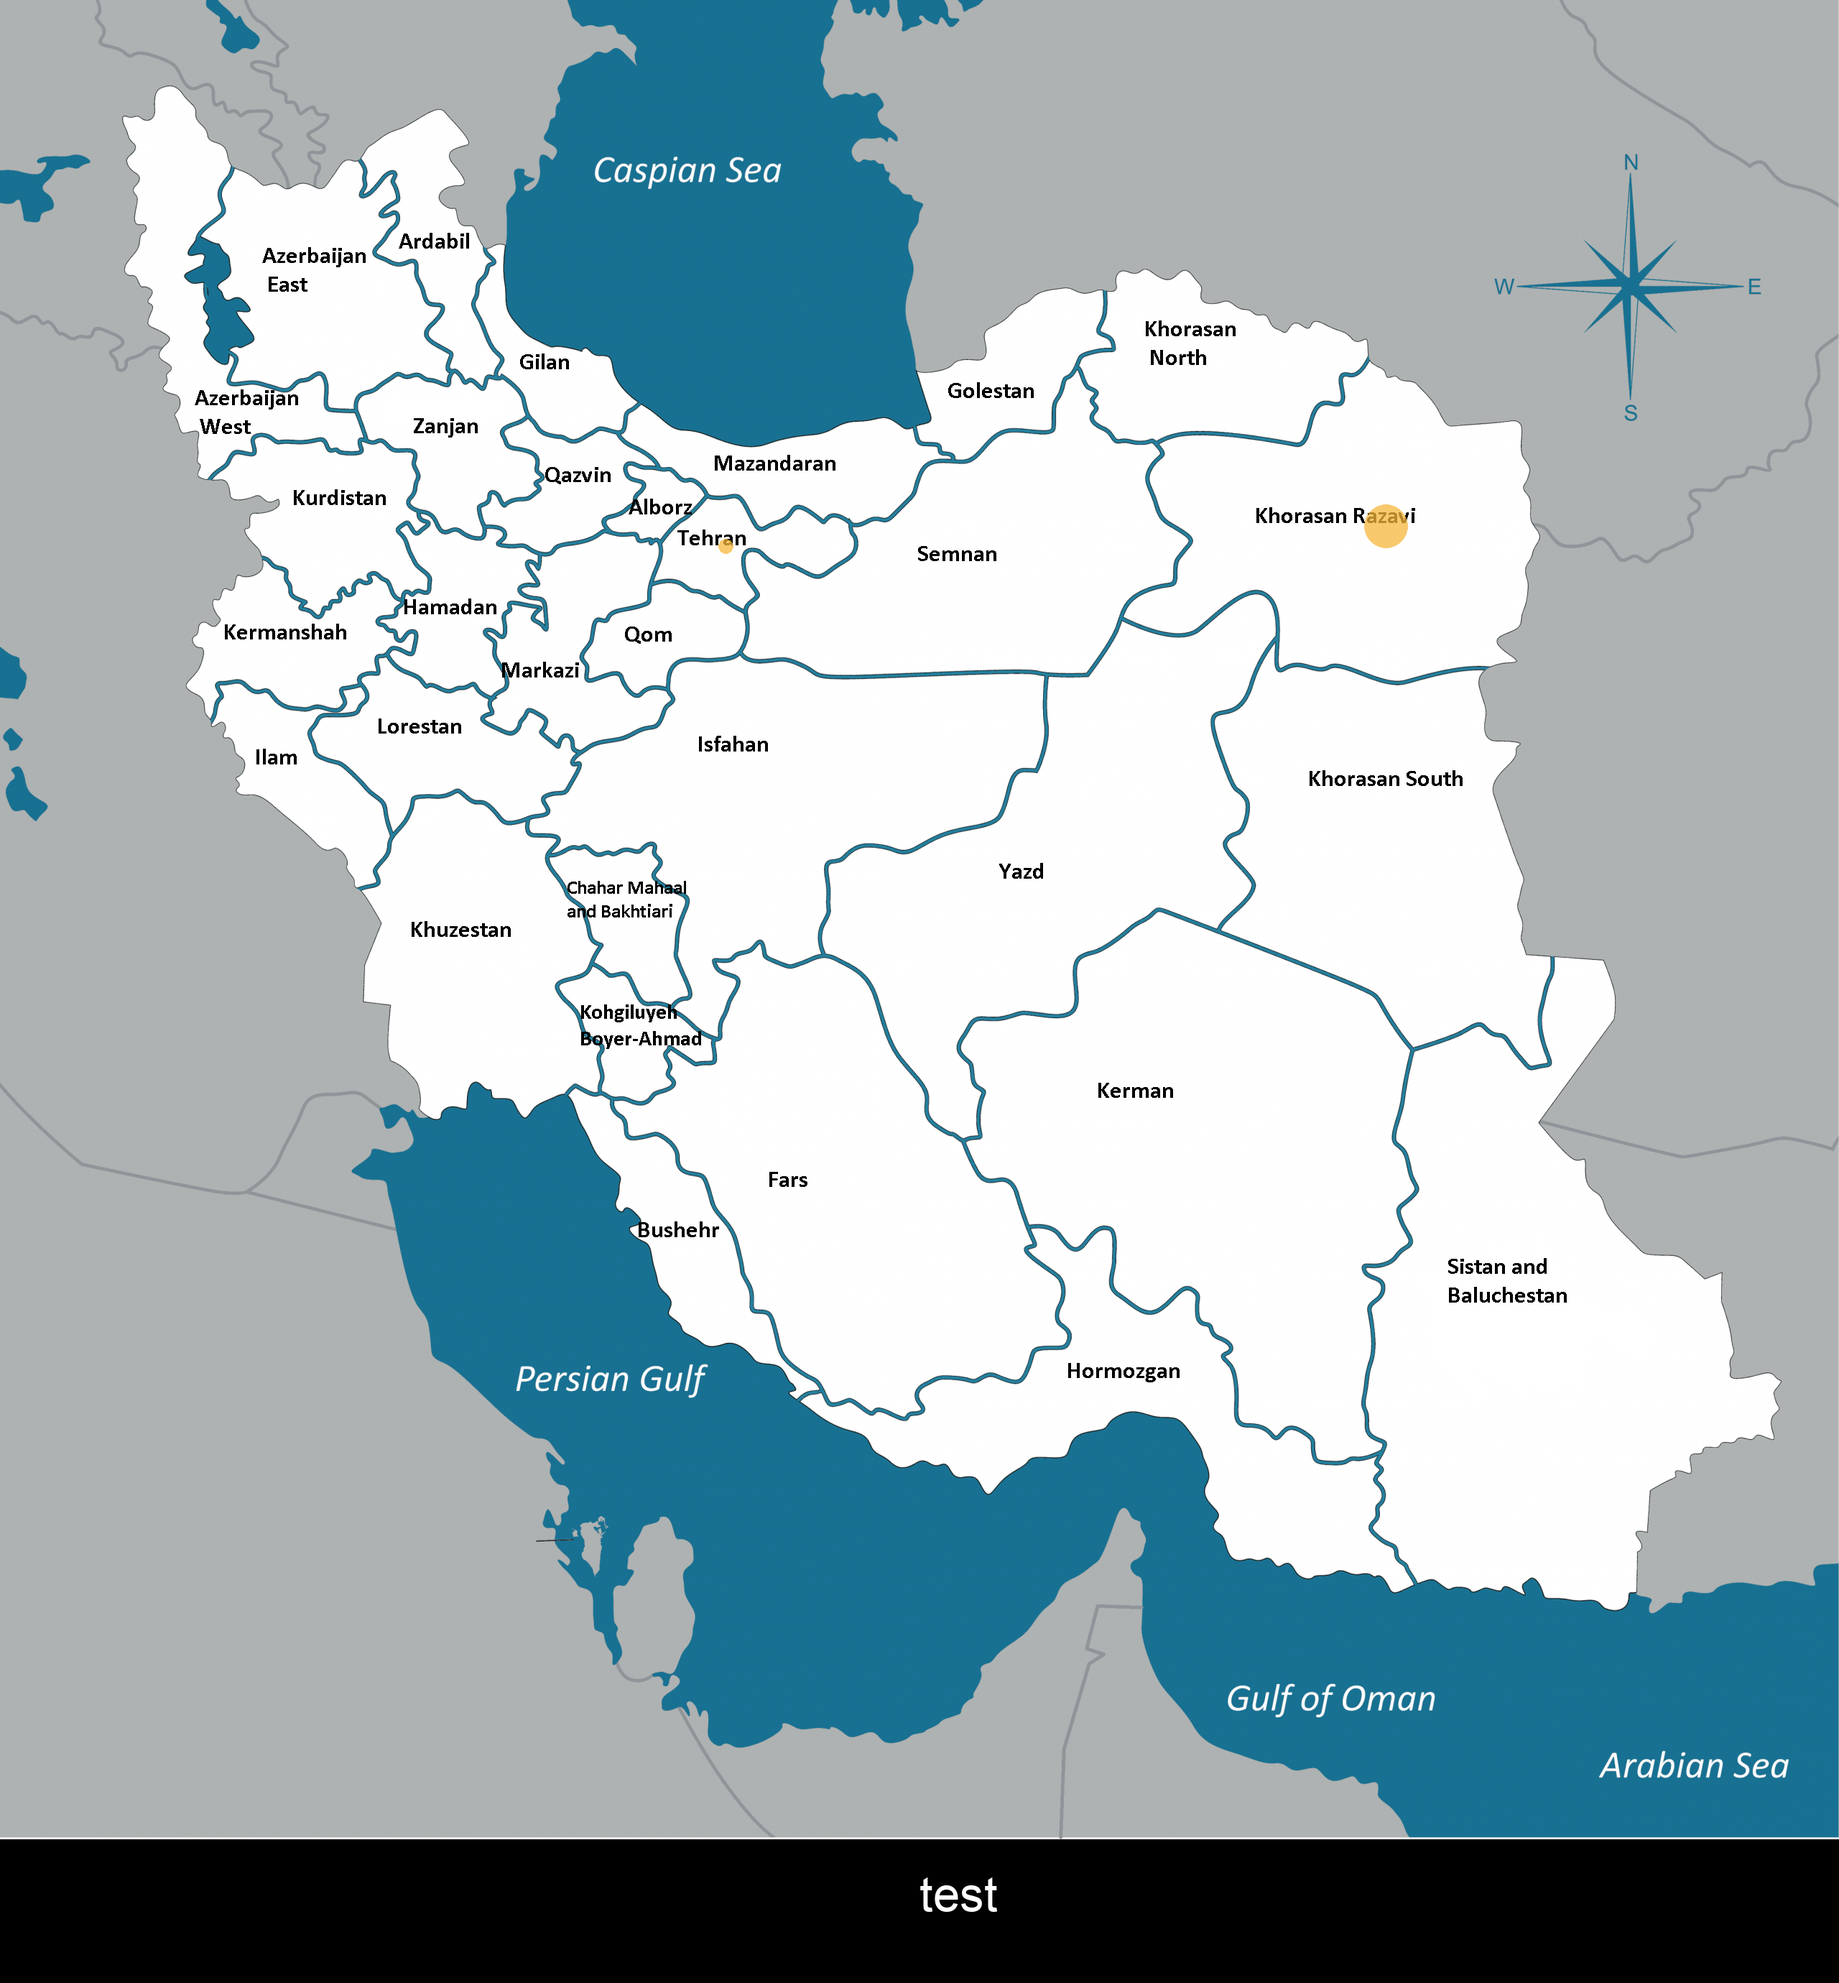
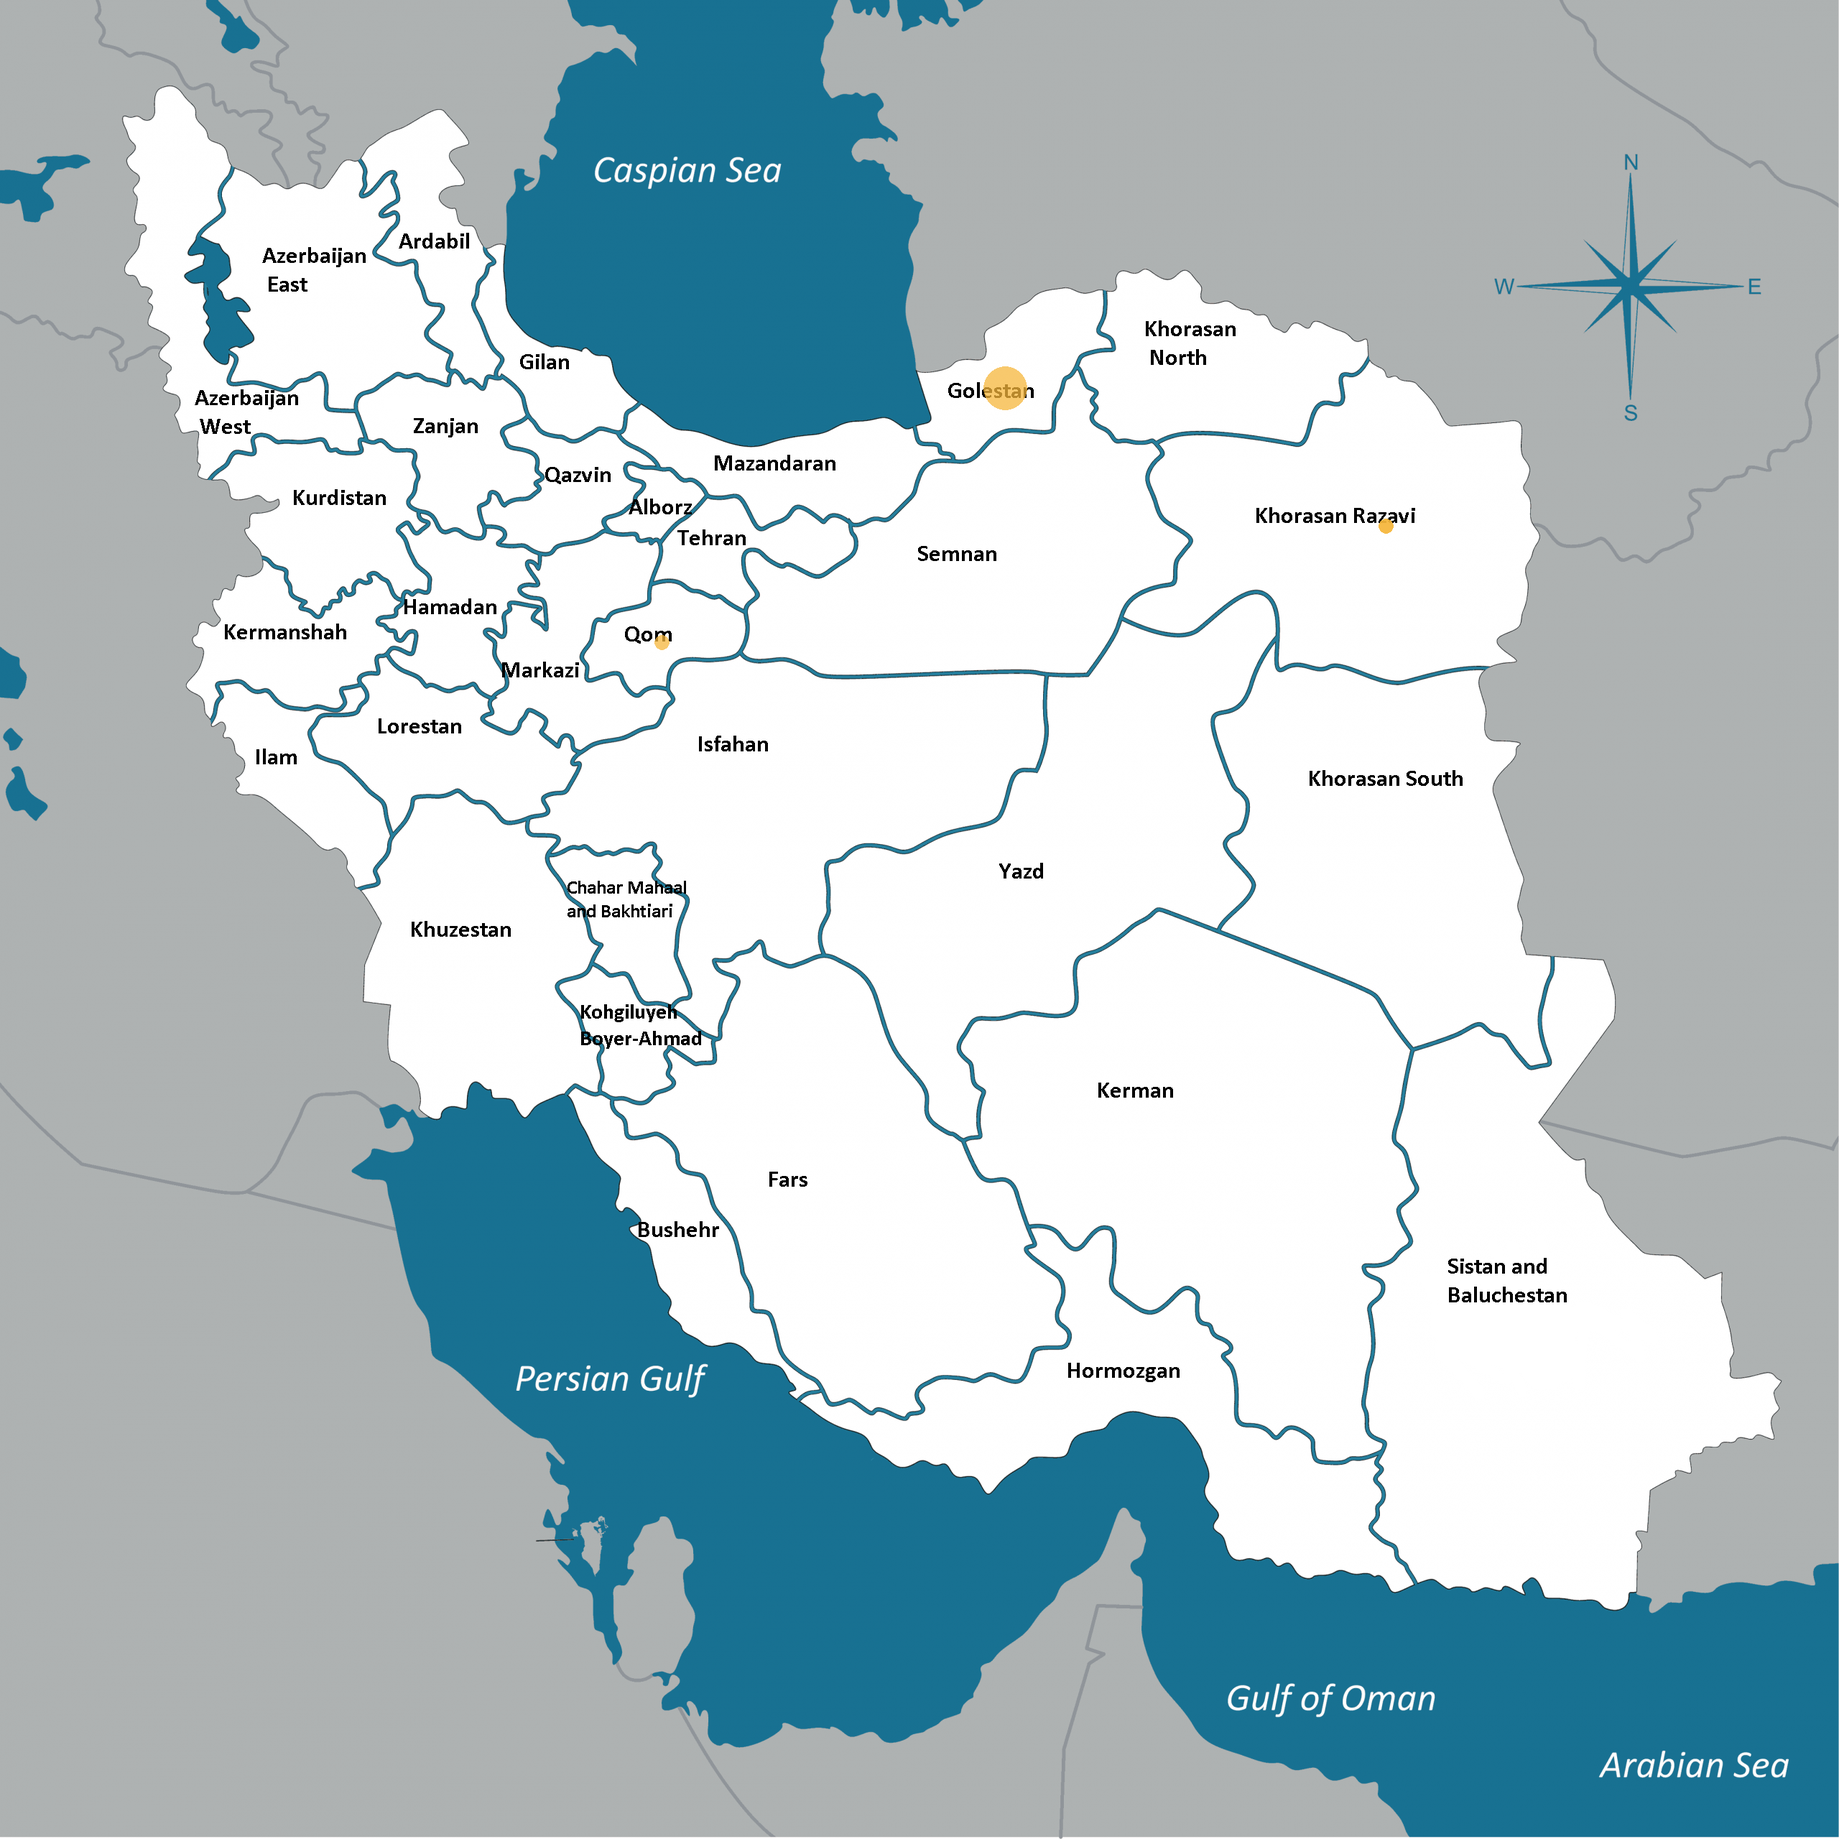
clean and organized codes add methods

diff --git a/src/php/map_diagram.php b/src/php/map_diagram.php
@@ -184,7 +184,7 @@ if ($chartDataValidation) {
         return array($min_value, $max_value);
     }
 
-    function draw_circles_on_image($data, $place_array, $min_max_value, $image, $color, $circle_diameter_range, $min_circle_diameter)
+    function draw_circles_on_image($data, $place_array, $min_max_value, $image, $color, $circle_diameter_range, $min_circle_diameter, $chartType)
     {
         $min_value = $min_max_value[0];
         $max_value = $min_max_value[1];
@@ -196,7 +196,11 @@ if ($chartDataValidation) {
             $temp_value = $temp_value / $values_different;
             $temp_value = $circle_diameter_range * $temp_value;
             $temp_value = $temp_value + $min_circle_diameter;
-            imagefilledellipse($image, $temp[1], $temp[2], $temp_value, $temp_value, $color);
+            if ($chartType == 2){
+                imagefilledellipse($image, $temp[3], $temp[2], $temp_value, $temp_value, $color);
+            }else{
+                imagefilledellipse($image, $temp[1], $temp[2], $temp_value, $temp_value, $color);
+            }
         }
     }
 
@@ -237,7 +241,7 @@ if ($chartDataValidation) {
 // Draw circle in center of states
     $data = json_decode($chartData);
     if ($chartType == 1) {
-        draw_circles_on_image($data, $states_array, find_min_and_max($data), $im, $circle_color, $circle_diameter_range, $min_circle_diameter);
+        draw_circles_on_image($data, $states_array, find_min_and_max($data), $im, $circle_color, $circle_diameter_range, $min_circle_diameter, $chartType);
     } elseif ($chartType == 2) {
         if ($chart_sum_up) {
             $temp_city_state_array = [];
@@ -249,12 +253,12 @@ if ($chartDataValidation) {
                     $temp_city_state_array[$temp_city[1]] += $temp_value;
                 }
             }
-            draw_circles_on_image($temp_city_state_array, $states_array, find_min_and_max($temp_city_state_array), $im, $circle_color, $circle_diameter_range, $min_circle_diameter);
+            draw_circles_on_image($temp_city_state_array, $states_array, find_min_and_max($temp_city_state_array), $im, $circle_color, $circle_diameter_range, $min_circle_diameter, 1);
         } else {
-            draw_circles_on_image($data, $coordinates_cities_array, find_min_and_max($data), $im, $circle_color, $circle_diameter_range, $min_circle_diameter);
+            draw_circles_on_image($data, $coordinates_cities_array, find_min_and_max($data), $im, $circle_color, $circle_diameter_range, $min_circle_diameter, $chartType);
         }
     } elseif ($chartType == 3) {
-        draw_circles_on_image($data, $world_array, find_min_and_max($data), $im, $circle_color, $circle_diameter_range, $min_circle_diameter);
+        draw_circles_on_image($data, $world_array, find_min_and_max($data), $im, $circle_color, $circle_diameter_range, $min_circle_diameter, $chartType);
     }
 
 // Copy and merge
